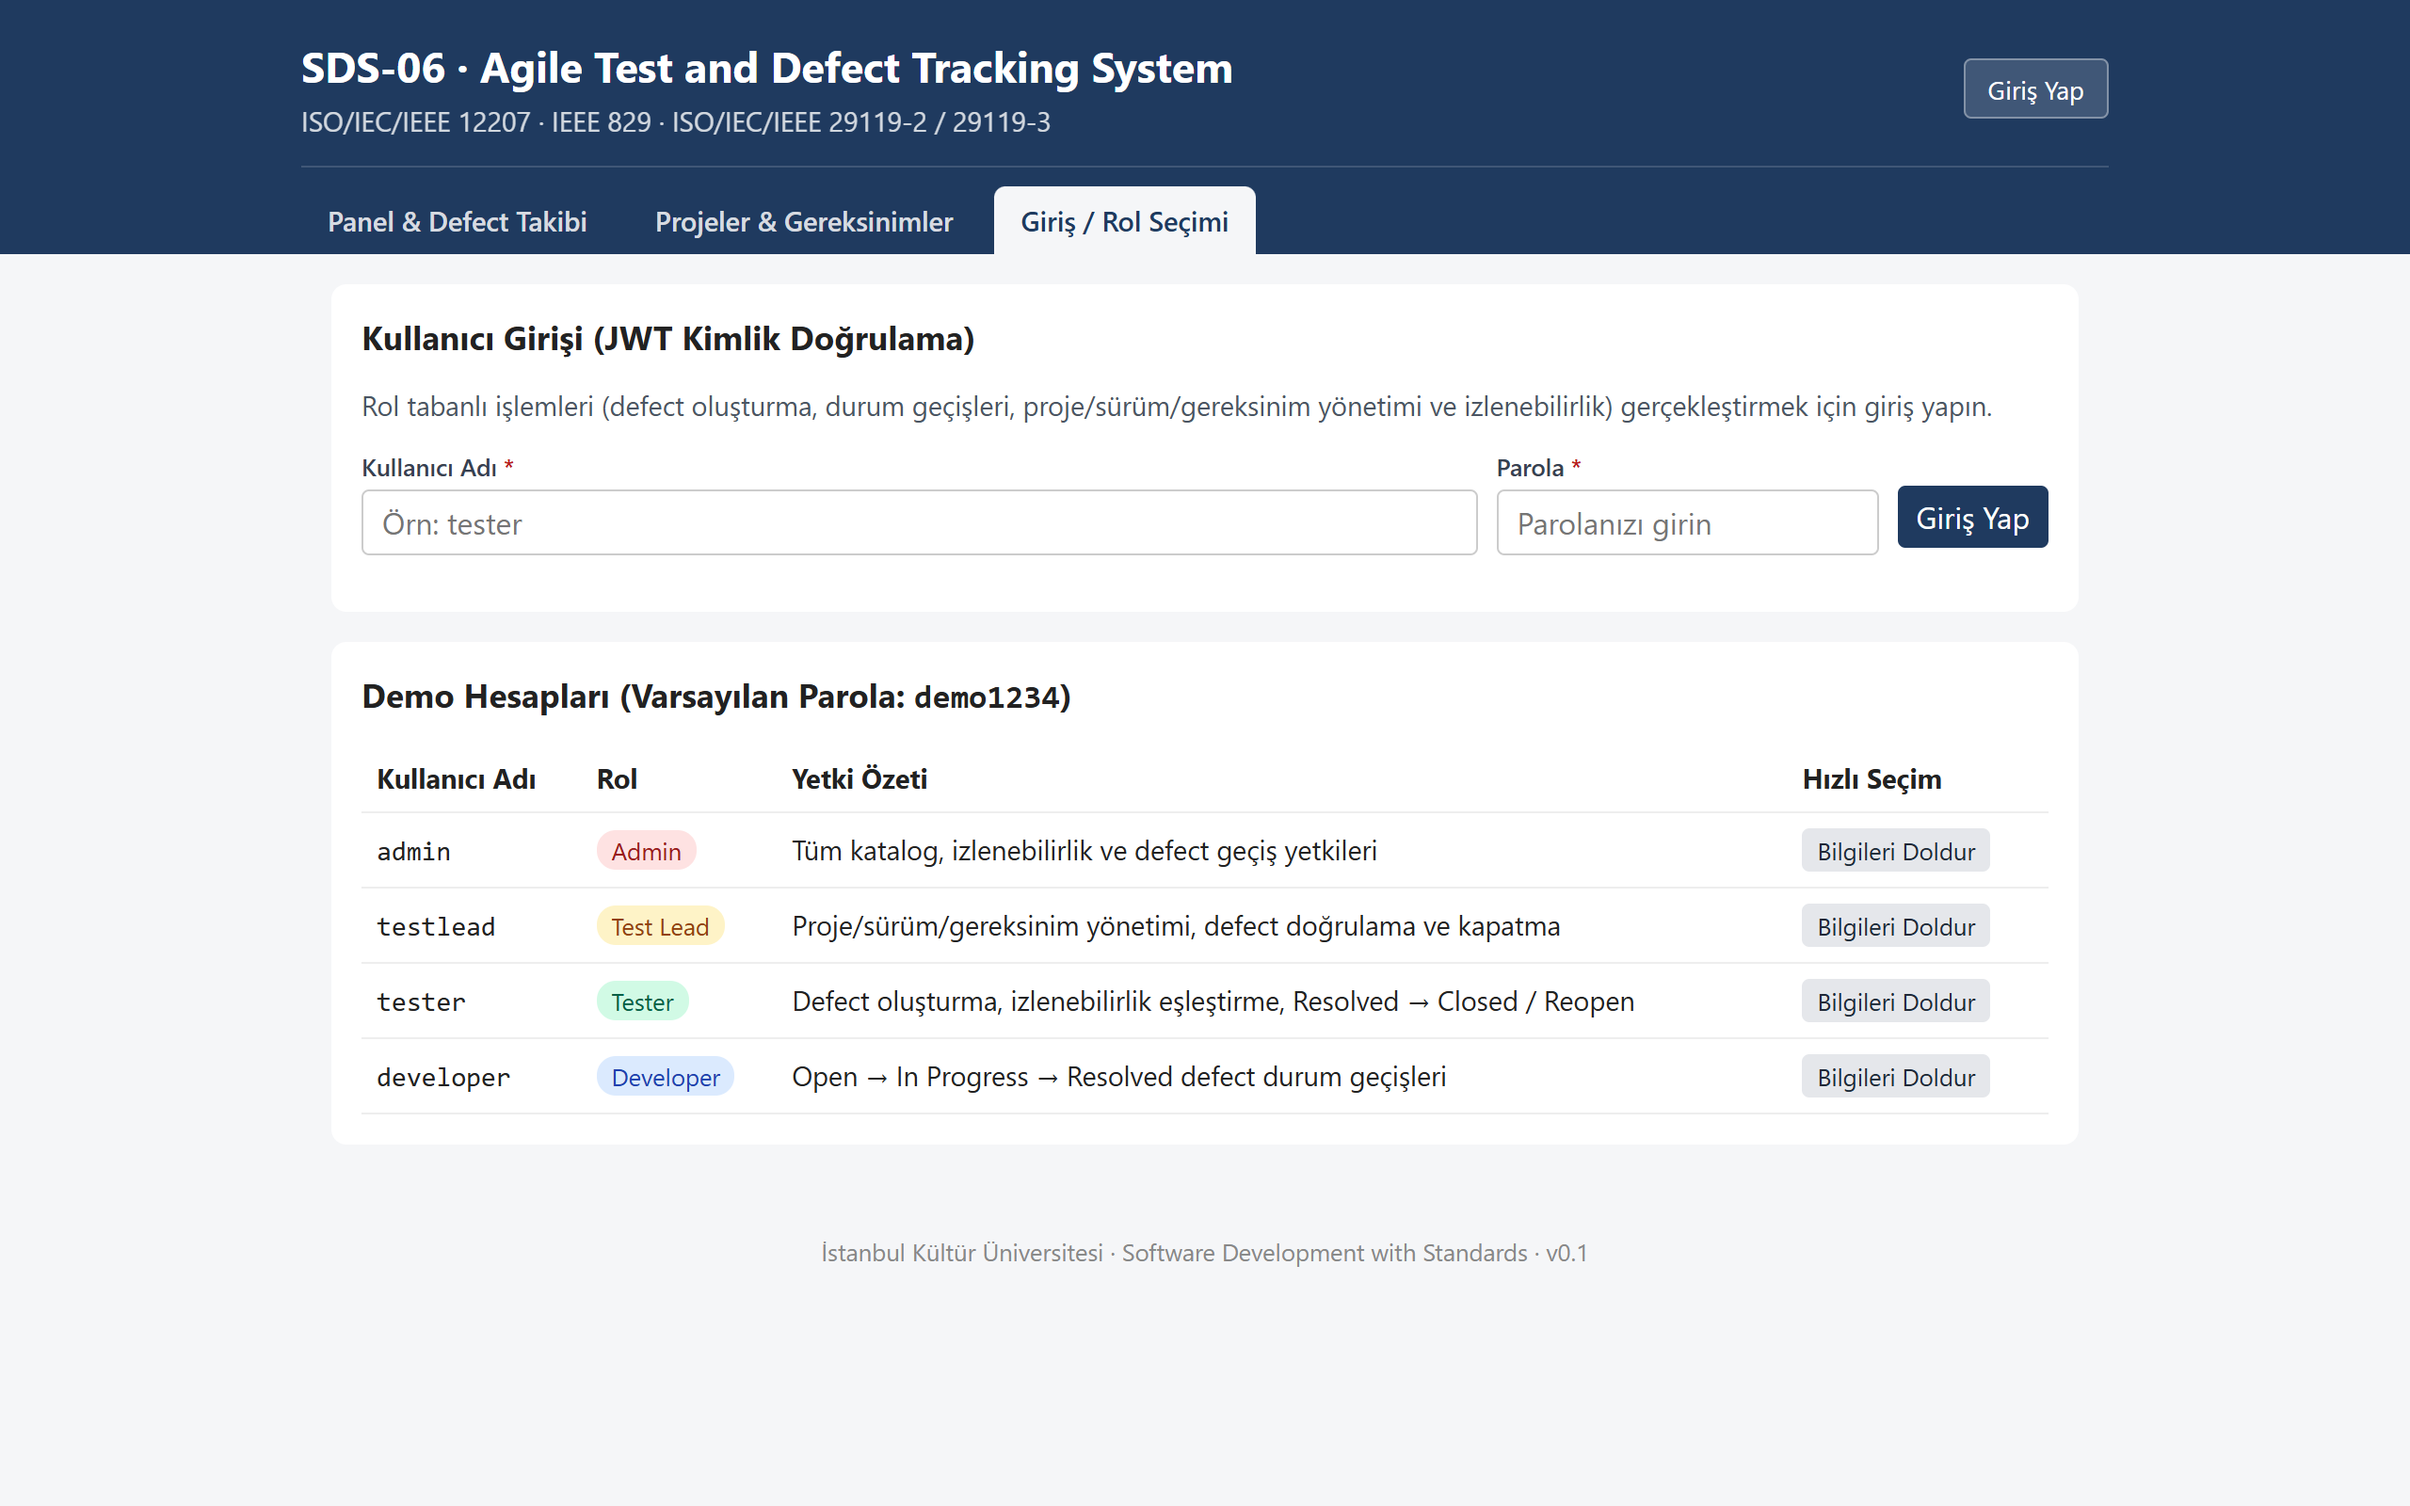
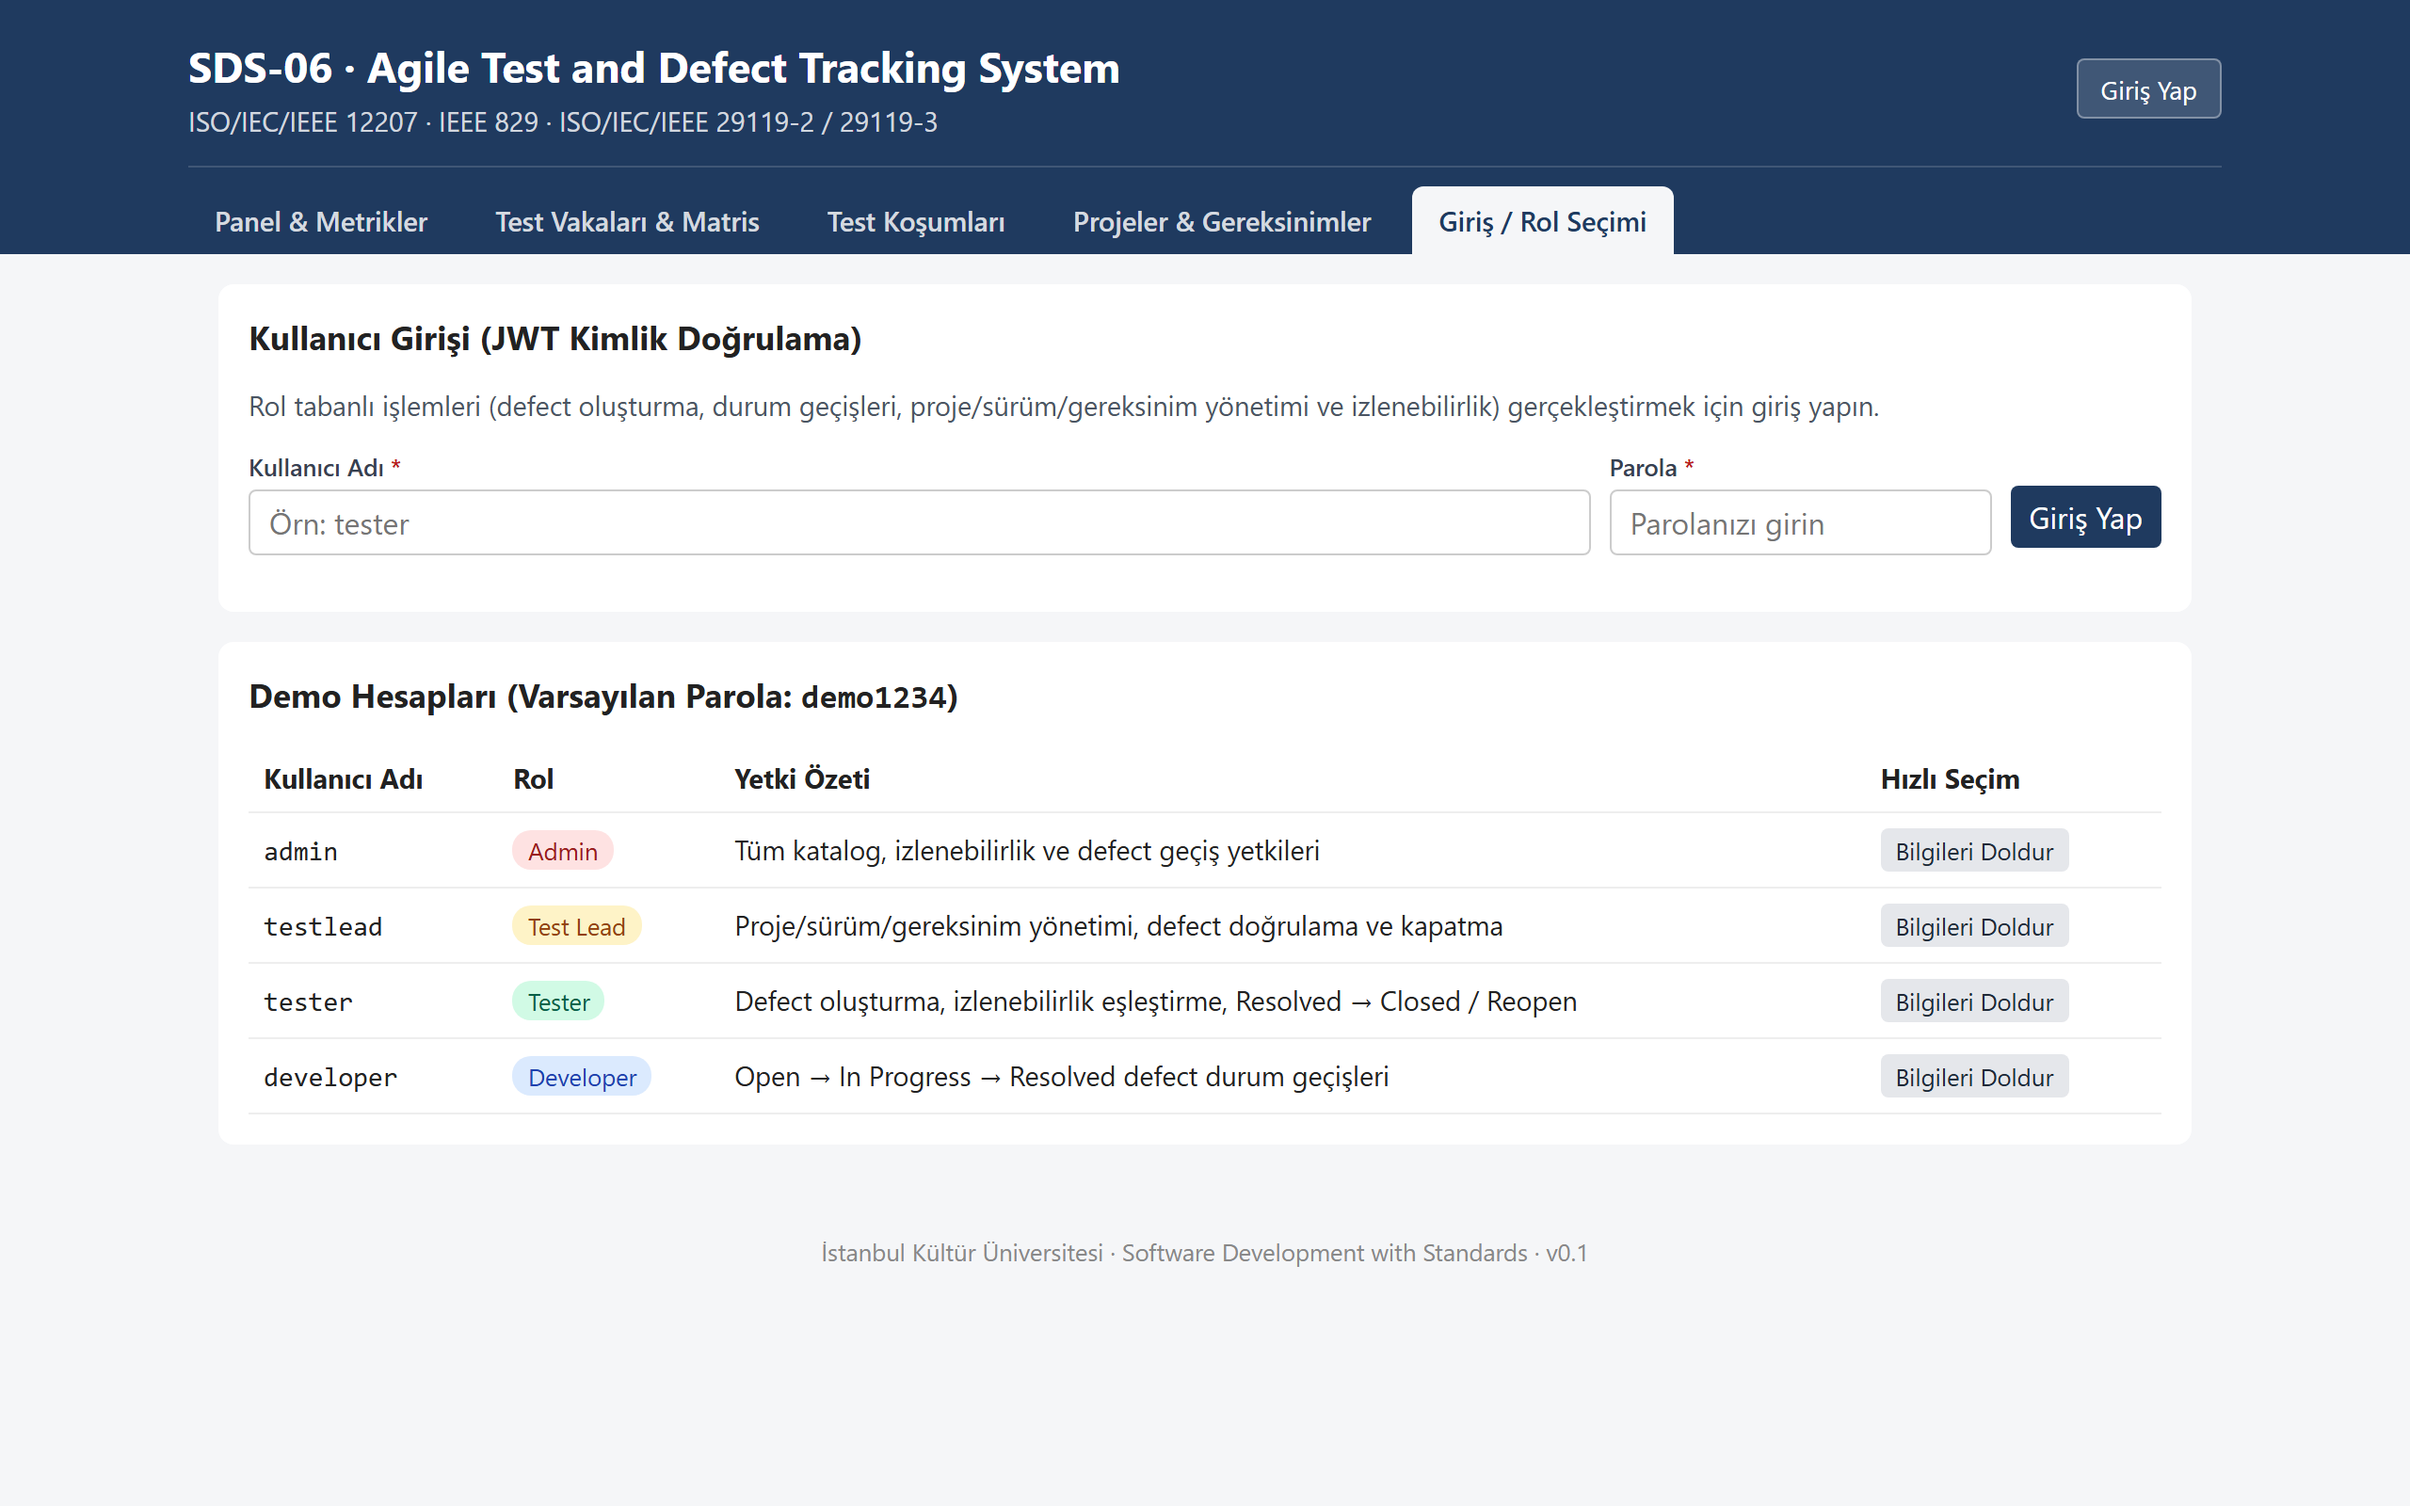
WP-12: update README and refresh 2x screenshots for November modules

diff --git a/README.md b/README.md
@@ -12,17 +12,37 @@ yayınlama adımlarını tek yerde yönetir; IEEE 829 dokümanlarını ISO/IEC/I
 
 ## Ekran görüntüleri
 
-**Panel ve defect takibi:** metrik kartları, gereksinime bağlı test vakaları, defect
-oluşturma ve yalnızca API'nin izin verdiği durum geçişleri.
+**Panel, grafikli metrikler ve sürüm çıkış kapısı:** özet metrik kartları, koşum başına
+yığılmış sonuç dağılımı ve başarı trendi, defect burn-up, önem dağılımı, sürüm çıkış
+kapısı eşikleri / Test Lead muafiyeti, test vakaları ve yalnızca API'nin izin verdiği
+durum geçişleri.
 
 ![Panel ve defect takibi](docs/screenshots/dashboard-2x.png)
+
+**Test vakası ve suite yönetimi (`/test-cases`):** kararlı anahtar, test adımları,
+beklenen sonuç, öncelik, otomasyon bayrağı, test suite ataması ve zorunlu gereksinim
+bağlantıları.
+
+![Test vakası ve suite yönetimi](docs/screenshots/test-cases-2x.png)
+
+**Etkileşimli gereksinim – test izlenebilirlik matrisi (`/test-cases`):** çoka çok
+gereksinim ↔ test vakası bağlantıları, kapsam özeti ve kapsam eksikliği (gap) uyarısı.
+
+![Gereksinim – test izlenebilirlik matrisi](docs/screenshots/traceability-matrix-2x.png)
+
+**Test koşumu yürütme ve koşum geçmişi (`/test-runs`):** `Passed` / `Failed` /
+`Blocked` / `Skipped` sonuç kaydı, başarısız yürütmeden doğrudan defect açma ve
+koşum geçmişi.
+
+![Test koşumu yürütme ekranı](docs/screenshots/test-runs-2x.png)
 
 **Defect detayı (IEEE 829 Test Incident Report):** bağlı test vakası, izin verilen
 geçişler ve değiştirilemez geçmiş zaman çizelgesi.
 
 ![Defect detay sayfası](docs/screenshots/defect-detail-2x.png)
 
-**Projeler, sürümler ve gereksinimler:** test vakası ↔ gereksinim izlenebilirliği.
+**Projeler, sürümler ve gereksinimler (`/projects`):** proje/sürüm kataloğu ve
+test vakası ↔ gereksinim izlenebilirliği.
 
 ![Projeler ve gereksinimler](docs/screenshots/projects-2x.png)
 
@@ -44,6 +64,7 @@ geçişler ve değiştirilemez geçmiş zaman çizelgesi.
 | Grafikli metrik paneli (`/`) ve sürüm çıkış kapısı kartı: koşum başına yığılmış sonuç çubuğu + başarı trendi, defect burn-up, önem dağılımı, yapılandırılabilir çıkış eşikleri ve Test Lead muafiyeti | R5, R7 | 29119-2 Test İzleme ve Kontrol |
 | Test vakası listesi ve metrikler: koşum oranı, başarı oranı, açık defect sayısı | R2, R5 | 29119-2 Test İzleme ve Kontrol |
 | JUnit XML içe aktarımı; commit/branch üst verisi, projeye göre kararlı test vakası eşleme ve eşleşmeyen sonuç raporu | R6 | 29119-2 Test Yürütme; 12207 Doğrulama |
+| Cobertura XML satır/dal kapsamı içe aktarımı ve GitHub Actions CI kanıtlarının geçici örneğe otomatik aktarımı | R5, R6 | 29119-2 Test İzleme ve Kontrol; 12207 Doğrulama |
 | Test koşumu (Test Run) ve test yürütme (Test Execution): Passed / Failed / Blocked / Skipped sonuçları, yürütme ↔ defect bağlantısı ve `Resolved → Closed` doğrulama şartı | R2, R4 | 29119-2 Test Yürütme; 12207 Doğrulama |
 | Sürüm durumları (`Planned`, `In Test`, `Ready`, `Released`), yapılandırılabilir çıkış kriterleri (başarı oranı, açık kritik defect, gereksinim kapsama) ve Test Lead / Admin muafiyet kaydı | R7 | 29119-2 Test Tamamlama; 12207 Kalite Güvence |
 | IEEE 829 Test Plan kaydı (`Draft` / `In Review` / `Approved`), anlık görüntü (snapshot) saklama ve Jinja2 + WeasyPrint/PDF + HTML üretimi | R1, R3 | IEEE 829 Test Plan; 29119-3 Test Plan; 12207 Uygulama |
@@ -148,8 +169,11 @@ Sınırlar, doğrulama, API ve migrasyon: [Cobertura sözleşmesi](docs/cobertur
 | Doküman | Dosya |
 | --- | --- |
 | Yazılım Gereksinim Spesifikasyonu (R1–R8) | [docs/srs.md](docs/srs.md) |
+| Gereksinim İzlenebilirlik Matrisi (RTM v1) | [docs/requirements-traceability-matrix-v1.md](docs/requirements-traceability-matrix-v1.md) |
+| Metrik Tanımları Kataloğu | [docs/metric-definitions.md](docs/metric-definitions.md) |
 | Proje Planı | [docs/project-plan.md](docs/project-plan.md) |
 | Test Plan (IEEE 829 / 29119-3) | [docs/test-plan.md](docs/test-plan.md) |
+| İş Akışı Test Vakası Spesifikasyonu (IEEE 829) · Ara Demo Senaryosu | [docs/test-case-specification-workflow.md](docs/test-case-specification-workflow.md) · [docs/mid-period-demo-scenario.md](docs/mid-period-demo-scenario.md) |
 | Yazılım Tasarım Tanımı (mimari ve veri modeli) | [docs/software-design-description.md](docs/software-design-description.md) |
 | Standart durumu ve IEEE 829 ↔ 29119 eşlemesi | [docs/standard-status-and-mapping.md](docs/standard-status-and-mapping.md) |
 | Risk kaydı · Definition of Done | [docs/risk-register.md](docs/risk-register.md) · [docs/definition-of-done.md](docs/definition-of-done.md) |
